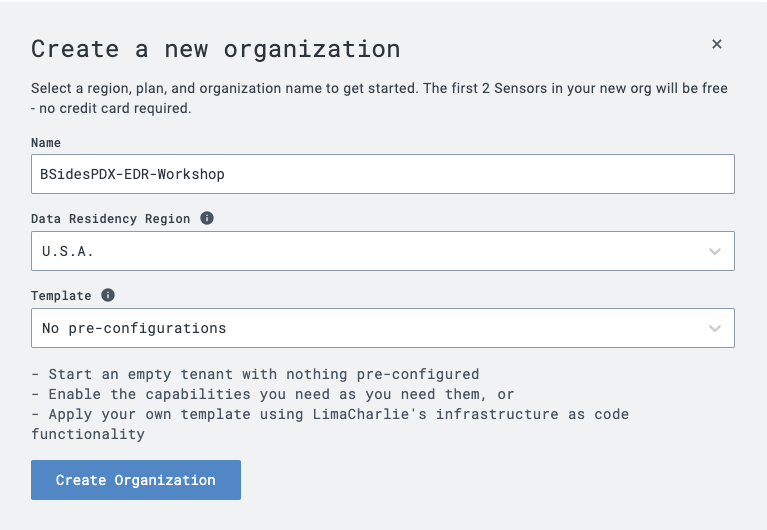
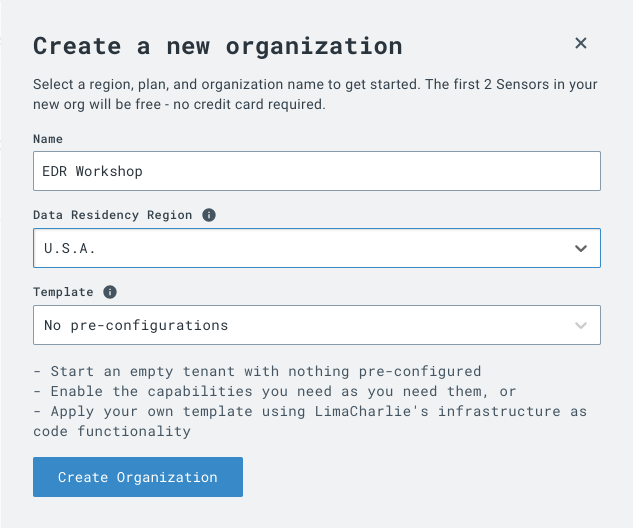
Removed references to BSidesPDX and made them generic "EDR Workshop"

diff --git a/README.md b/README.md
@@ -60,7 +60,7 @@ In this lab we will actually be building the lab environment we will be using Vi
 
 We will use the free tier of LimaCharlie for our lab, this will allow us to easily deploy an agent to start gathering telemetry from our Windows system, and then start writing and deploying detection and response rules. 
 
-1. [Create a free LimaCharlie account](https://free.limacharlie.io) (please select BSidesPDX for the first option, feel free to use a burner email).
+1. [Create a free LimaCharlie account](https://free.limacharlie.io) (please select EDR Workshop for the first option, feel free to use a burner email).
 
 
 ![VM Setup](/img/8_lc_setup1.png)
